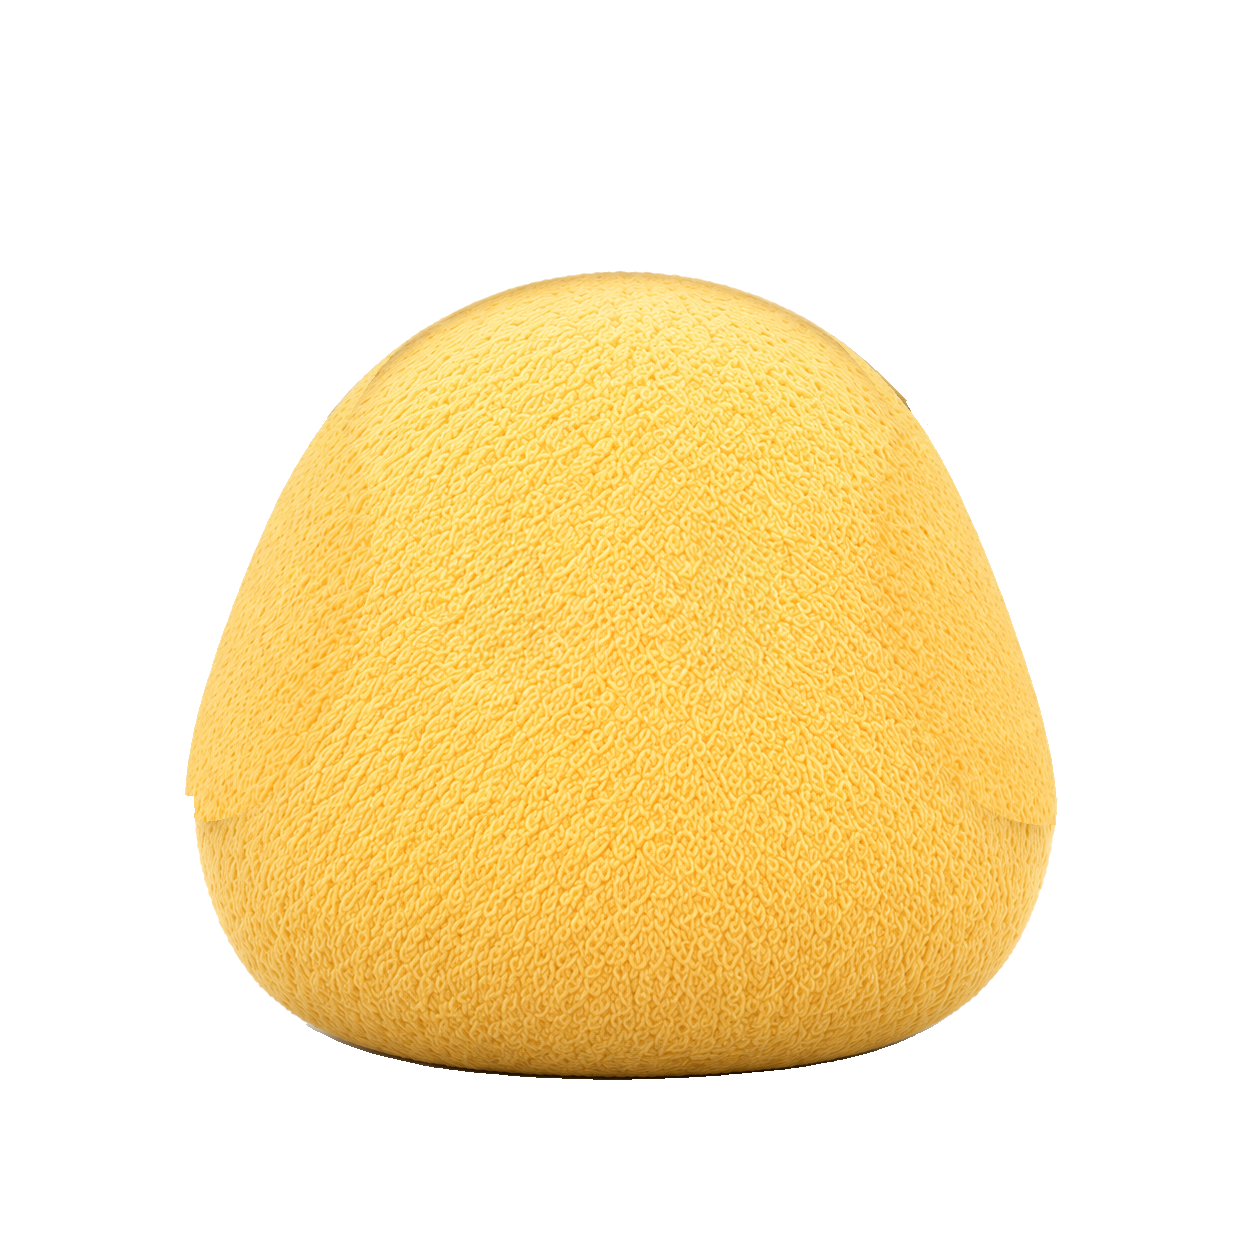
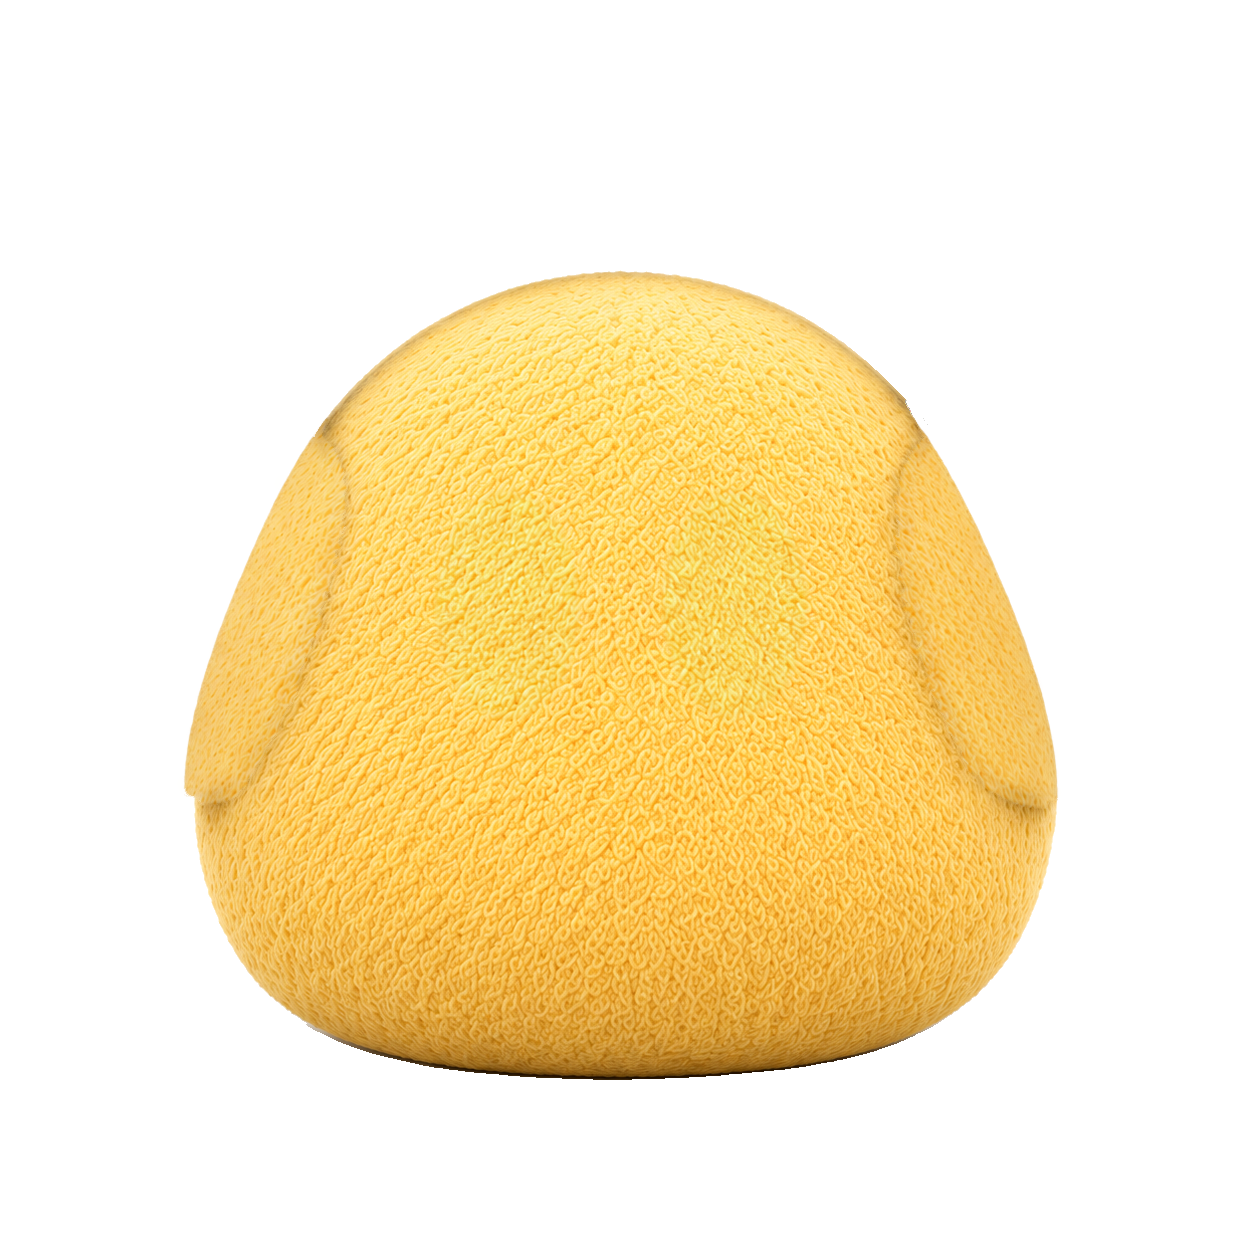
docs(design): dungdung body fix
Repair the hidden ear-cup plush, match local colour at the boundary and round the hidden alpha edge while retaining exposed still pixels. All 439409 tested pixels match exactly outside the accessory and eye exclusions. No dark headphone fragment remains in the side zones; eye mean differences are 0.3729% and 0.0796%. One additional image generation. Alpha, texture, CPU headroom and real WebGL pose checks pass.

Changed region(s): [[0.1555, 0.311, 0.311, 0.6531], [0.6842, 0.2799, 0.8397, 0.6531], [0.2799, 0.2799, 0.311, 0.311]]

diff --git a/.doan/assets/buddies/README.md b/.doan/assets/buddies/README.md
@@ -115,15 +115,15 @@ The maintainer compared all five cards in `buddy-choice.html` and approved the g
 
 ## Dungdung layers and rig
 
-`dungdung/still.png`, `body.png`, `accessory.png` and `shadow.png` are 1254² RGBA. Built-in image_gen made three
-edits (still, body, accessory); `dungdung/prompts.json` preserves the prompts. The generated still guides the
-transparent silhouette while the supplied card's visible pixels preserve its colour and yarn. Small internal
-alpha holes are filled (including the plush behind Popo's lenses). The generated accessory guides a source-pixel
-extraction; the generated body restores the hidden plush and the eye windows. ImageMagick matches eye-window
-colour and yarn contrast to the surrounding ring, with a compact transition. Accessory contact imprints are
-removed from the body; exposed boundary pixels are retained. The supplied card and artist files are unchanged.
-The black-alpha shadow is extracted from white darkening on the exposed floor and completed smoothly beneath
-the body; shadow generation count is zero. Human visual approval is pending.
+`dungdung/still.png`, `body.png`, `accessory.png` and `shadow.png` are 1254² RGBA. Three initial image_gen edits
+(still, body, accessory) are recorded in `dungdung/prompts.json`. The body now keeps the still's exposed pixels and
+cast shading outside the accessory and eye edit windows. Existing reconstructed plush is used only beneath
+the accessory and in the eyes, with a one-pixel compact accessory feather and local colour matching; its yarn
+texture is not substituted across the exposed body. Source cast shadows are preserved rather than redrawn.
+The supplied still, accessory, shadow, card and artist files are unchanged by this body correction.
+One additional image generation repairs the cup regions; the hidden body alpha is rounded beneath the cups.
+The side zones contain zero dark headphone-fragment pixels (maximum RGB below 90).
+The black-alpha ground shadow remains the extracted card shadow. Human visual approval is pending.
 
 | Rig value | Dungdung |
 |---|---|
@@ -139,7 +139,7 @@ the body; shadow generation count is zero. Human visual approval is pending.
 
 Measurements use the same opaque dark-eye component and 50 % alpha ground sampling as Puri. The shared eye
 radius and centres agree with the still within `.003` UV. Body + accessory matches the still's alpha boundary
-within 1 source px outside the eyes. Neither body eye contains a dark eye pixel. Eye checks: left 0.8424% mean luminance difference, texture ratios 0.943/0.990/1.012; right 0.8282% mean luminance difference, texture ratios 0.908/0.938/0.956.
+within 1 source px outside the eyes. Neither body eye contains a dark eye pixel. Eye checks: left 0.3729% mean luminance difference, texture ratios 0.951/1.001/1.023; right 0.0796% mean luminance difference, texture ratios 0.922/0.953/0.972.
 Texture ratios are high-pass RMS at Gaussian sigma 1/2/4 px; each eye's measuring ellipse adds 22/28 px to the
 eye's measured x/y radii, with the surrounding ring at 1.25–1.5 times that ellipse. Mean luminance uses linear-light
 Rec.709 weights, relative to the ring. The eyes are measured after the final composite.
@@ -147,6 +147,13 @@ CPU motion verification checks 735,160 poses against the actual alpha hulls, ret
 11.49 device px inside Home's 228 px buffer (14.42 in 286 px).
 This is an asset transform check, not app WebGL parity. Scripts, generation sources and measurements remain in
 `.scratch/buddy-assets/dungdung/` and the shared scripts in `.scratch/buddy-assets/`.
+
+Source-pixel check: exclude positive accessory alpha dilated by a Euclidean 2 px disk and the eye edit
+ellipses (1.2 times the measuring windows). Of 439,409 opaque still pixels (alpha ≥ 250),
+100% match exactly in RGB and alpha, with maximum channel difference 0; the gate is ≤ 8 for at least 99.5%.
+Final correction scripts, source-match, eye/alpha checks, CPU hull results and browser pose comparisons are in
+`.scratch/buddy-assets/body-fixes/dungdung/` and its parent directory.
+
 
 ## Popo layers and rig
 
